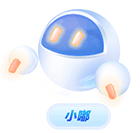
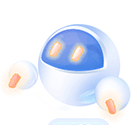
精细

Changed region(s): [[0.0571, 0.0602, 0.9429, 0.9925], [0.8286, 0.3008, 0.8571, 0.4211]]

diff --git a/components/equipementInfoCon/index.js b/components/equipementInfoCon/index.js
@@ -32,17 +32,18 @@ Component({
             const canvas = res[0].node
             const ctx = canvas.getContext('2d')
             const dpr = wx.getSystemInfoSync().pixelRatio // 屏幕比例
-            let w = res[0].width * dpr, h = res[0].height * dpr;
+            let w = 160 * dpr, h = 100 * dpr;
             canvas.width = w;
             canvas.height = h
             this.drawImg(ctx,canvas,w,h,dpr)
           })
     },
     drawImg(ctx,canvas,w,h,dpr){
-      let minpix = w<h?w:h;
+      let sc = 0.98
+      let minpix = (w<h?w:h)*sc;
       const img = canvas.createImage()
         img.src = "/image/rbg.png"
-        let x = (152*dpr - minpix)/2, y = (136*dpr - minpix)/2
+        let x = (w - minpix)/2 + 10*dpr, y = (1-sc)*minpix/2
         img.onload = function() {
           ctx.drawImage(img, x, y,minpix,minpix)
         }

diff --git a/custom-tab-bar/index.less b/custom-tab-bar/index.less
@@ -7,7 +7,7 @@
   background: white;
   display: flex;
   padding-bottom: env(safe-area-inset-bottom);
-  box-shadow: 0 0 1px 0px rgba(100, 100, 100, 0.5);
+  box-shadow: 0 0 1px 0px rgba(100,100,100, .5);
 }
 .tab-bar-item {
   flex: 1;
@@ -16,13 +16,13 @@
   justify-content: center;
   align-items: center;
   flex-direction: column;
-}
-.tab-bar-item .coverImage {
-  width: 24px;
-  height: 24px;
-  margin-top: 8px;
-  margin-bottom: 4px;
-}
-.tab-bar-item .coverView {
-  font-size: 9px;
+  .coverImage {
+    width: 24px;
+    height: 24px;
+    margin-top: 8px;
+    margin-bottom: 4px;
+  }
+  .coverView {
+    font-size: 9px;
+  }
 }

diff --git a/pages/home/user/index.js b/pages/home/user/index.js
@@ -11,11 +11,11 @@ Component({
   },
   data: {
     iconBtnLists:[
-      {label:'上班',url:'', icon:'iconBtn_0.png'},
-      {label:'下班',url:'', icon:'iconBtn_0.png'},
-      {label:'请假',url:'', icon:'iconBtn_0.png'},
-      {label:'异常上报',url:'', icon:'iconBtn_0.png'},
-      {label:'随拍',url:'', icon:'iconBtn_0.png'}
+      {label:'上班',url:'', icon:'onWork.png'},
+      {label:'下班',url:'', icon:'offWork.png'},
+      {label:'请假',url:'', icon:'leave.png'},
+      {label:'异常上报',url:'', icon:'uncommon.png'},
+      {label:'随拍',url:'', icon:'takePhone.png'}
     ],
     goldLists:[
       {

diff --git a/components/btnBgItem/index.less b/components/btnBgItem/index.less
@@ -3,14 +3,14 @@
   margin: 0 0 0 12px;
   border-radius: 10px;
   overflow: hidden;
-  background-color: #f3f9ff;
+  background-image: linear-gradient(180deg, #fcf8f3 0%,#fcf5ed 100%);
   padding: 12px 18px;
-  min-height: 36px;
   .iconPng{
     position:absolute;
-    bottom:10px;
-    right: 12px;
-    max-width: 60%;
+    bottom: -4px;
+    right: -4px;
+    width: 36px;
+    height: 36px;
     z-index: 2;
   }
   .bg{
@@ -22,9 +22,10 @@
     z-index: 1;
   }
   .label{
-    font-size: 12px;
+    font-size: 11px;
     position: relative;
     z-index: 3;
+    color: #8d5a0b;
   }
   .des{
     color: #aaa;

diff --git a/pages/equipment/index.js b/pages/equipment/index.js
@@ -2,10 +2,10 @@ Page({
   data: {
     pageName: 'equipment',
     iconBtnLists:[
-      {label:'扫码',url:''},
-      {label:'故障打卡',url:''},
-      {label:'停机申请',url:''},
-      {label:'生产打卡',url:''}
+      {label:'扫码',url:'',icon:'scanc.png'},
+      {label:'故障打卡',url:'',icon:'eq_err.png'},
+      {label:'停机申请',url:'',icon:'stop.png'},
+      {label:'生产打卡',url:'',icon:'check.png'}
     ],  
     informations:[
       {label: 'WT',value:'--'},

diff --git a/components/equipementInfoCon/index.less b/components/equipementInfoCon/index.less
@@ -50,7 +50,7 @@
       overflow: hidden;
       position: absolute;
       top:-18px;
-      right:10px;
+      right:2px;
       z-index: 1;
       .before{
         display: inline-block;
@@ -62,11 +62,12 @@
     }
     .containerTotal{
       position: absolute;
-      right: 0;
+      right: 10px;
       top:-2px;
       z-index: 2;
       width: 100%;
-      height: 140px;
+      height: 110px;
+      width: 120px;
     }
     .containerDoo{
       position: relative;

diff --git a/components/topImg/navbar/index.less b/components/topImg/navbar/index.less
@@ -17,6 +17,7 @@
   justify-content: center;
   height: 100%;
   position: relative;
+  min-height: 42px;
 }
 .title_view_left{
   display: flex;
@@ -33,4 +34,11 @@
 }
 .custom-class{
   padding-top: 0 !important;
+}
+.logoImg{
+  position: absolute;
+  left: 50%;
+  top: 50%;
+  margin-left: -80px;
+  margin-top: -12px;
 }

diff --git a/components/topDooBtn/index.js b/components/topDooBtn/index.js
@@ -4,11 +4,11 @@ Component({
   data: {
     setInfo_doo: {
       label: "小嘟",
-      image: '/image/rbg.png'
+      image: '/image/robot.png'
     },
     setInfo_vice: {
       label: "呼叫",
-      image: '/image/rbg.png'
+      image: '/image/voice.png'
     }
   },
 })

diff --git a/components/btnBgItem/index.js b/components/btnBgItem/index.js
@@ -3,7 +3,7 @@ Component({
     informations:{
       type: Object,
       value:{
-        image: "/image/emptyerror.png",
+        image: "/image/robot.png",
         label: "--",
         des: ":)"
       }
